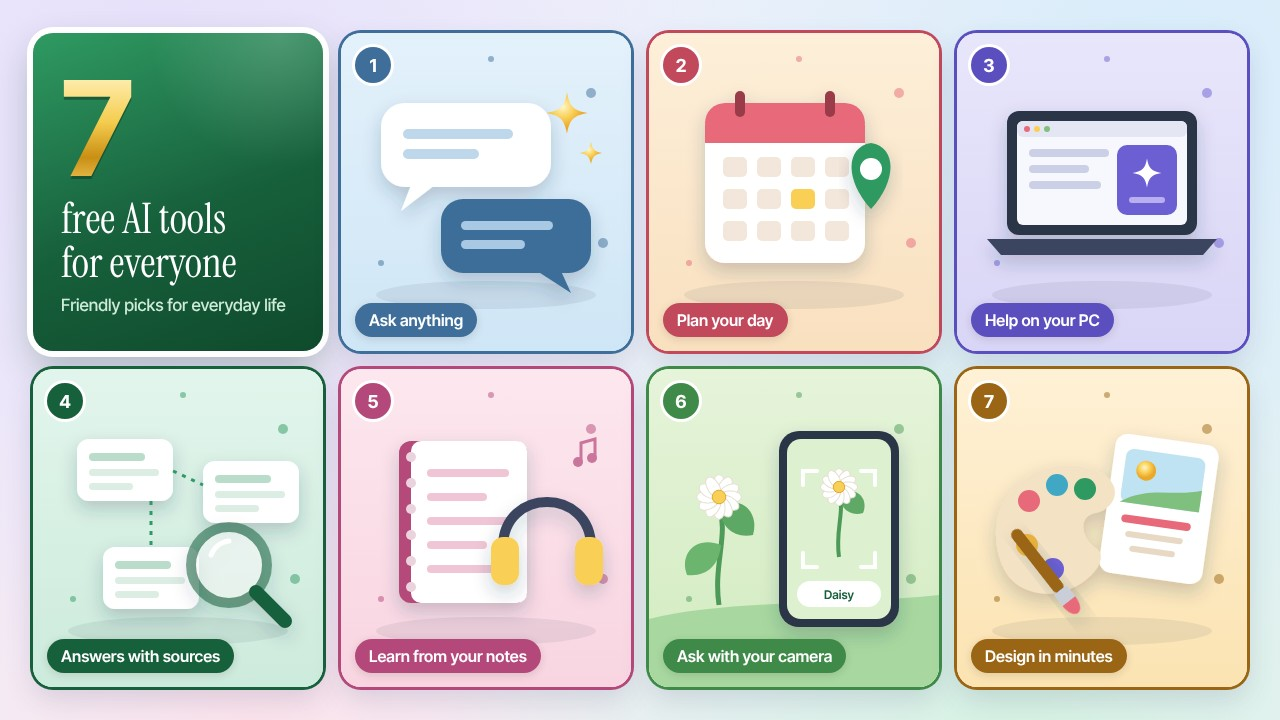
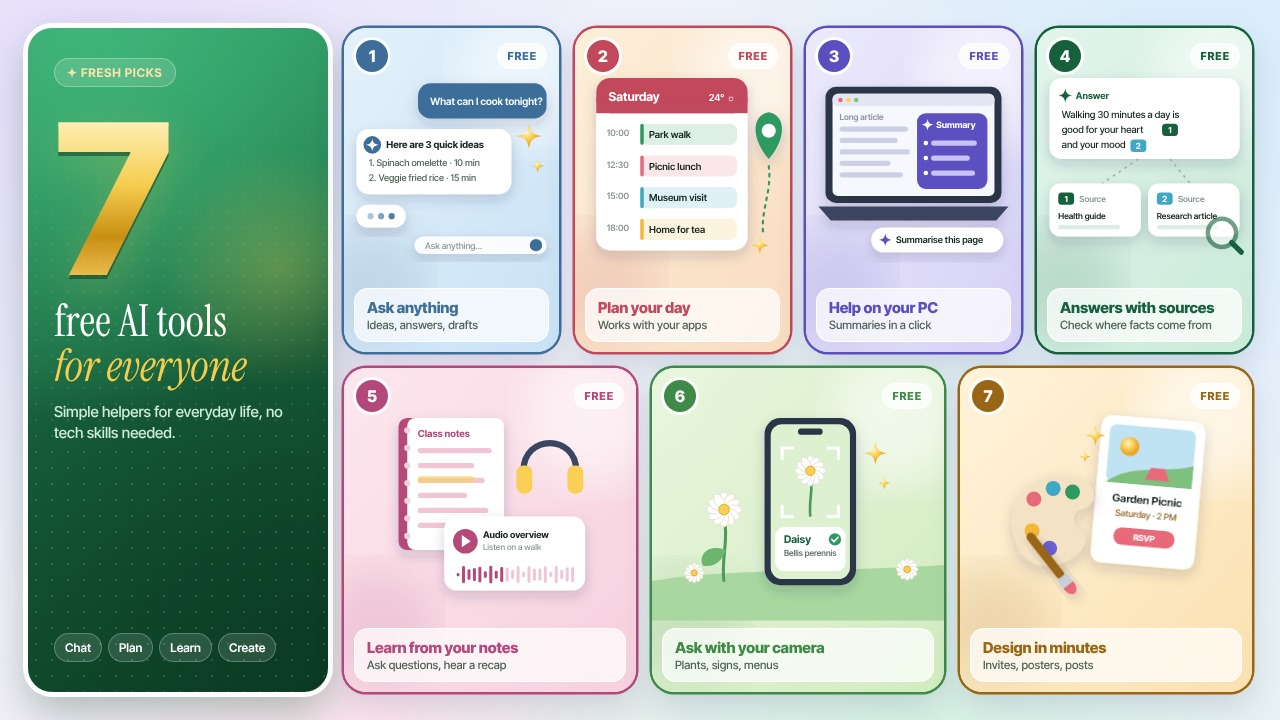
New bento-style cover for the Top 7 free AI tools article
Claude-Session: https://claude.ai/code/session_011joVF6bbyZDhpZpCEdrVDq

diff --git a/src/content/posts/top-7-ai-tools.md b/src/content/posts/top-7-ai-tools.md
@@ -5,7 +5,7 @@ pubDate: 2026-11-05
 topic: "Top 7 AI Tools for Everyone"
 level: Beginner
 cover: /images/cover-top-7-tools.jpg
-coverAlt: "A green title card reading '7 free AI tools for everyone' beside seven numbered illustrated tiles: chat bubbles (ask anything), a calendar with a map pin (plan your day), a laptop (help on your PC), a magnifying glass over linked notes (answers with sources), a notebook with headphones (learn from your notes), a phone camera framing a daisy (ask with your camera), and a paint palette with an invitation card (design in minutes)."
+coverAlt: "A bento-style collage: a green title card with a big gold 7 reading 'free AI tools for everyone', beside seven numbered tiles marked free, each showing a small app scene: a chat suggesting quick dinners, a Saturday plan with a map pin, a laptop summarising a page, an answer with numbered sources, class notes with an audio overview, a phone camera identifying a daisy, and a garden picnic invitation with a paint palette."
 ---
 
 There are thousands of AI tools out there, and new ones seem to arrive every week. It's easy to feel you're missing out, or to not know where to begin.
